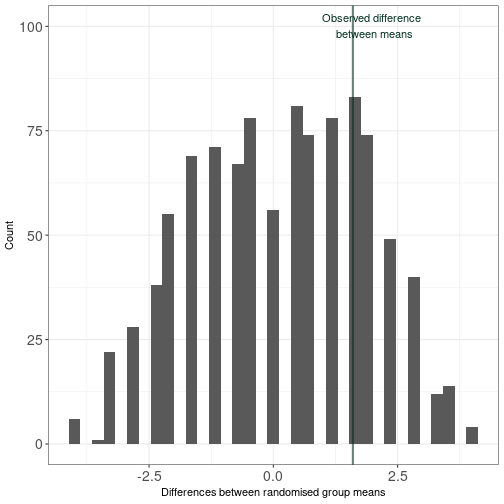
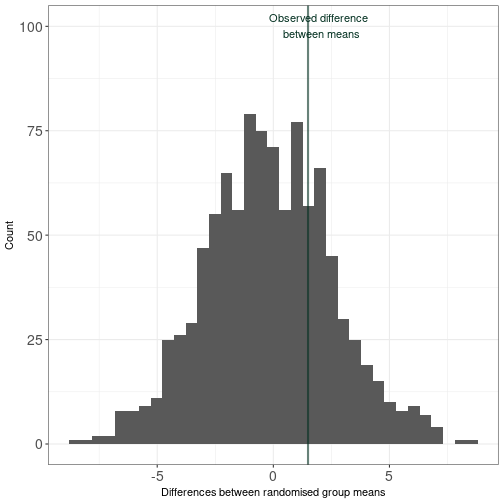
week 03 02

diff --git a/index.html b/index.html
@@ -2232,73 +2232,81 @@ class: rolling-slide
 + **Correctly interpret** and **communicate** a p-value in terms of a randomization test
 ]
 
+---
+
+[`R` demo] - download [sweets.csv](https://canvas.auckland.ac.nz/courses/120675/files/15934050?wrap=1) from CANVAS (i.e., last lectures' data)
+
+
+``` r
+library(tidyverse)
+sweets &lt;- read_csv("sweets.csv")
+## drop NA Time (response) values
+sweets &lt;- sweets[!is.na(sweets$Time),] 
+## One unusually high time value 
+## here I've chosen to assume the , is meant to be a decimal 
+## and have overwritten it 'manually' (is this best practice?)
+sweets$Time[1] &lt;- 49.53
+## Plotting 
+ggplot(sweets, aes(x = Treatment, y = Time)) +
+  geom_violin()
+```
 
 ---
 class: inverse, middle, center
 
-##### Do you think the means of each group are *significantly* different from each other? Why or why not? 
+**Are the means of each treatment are *significantly* different from each other? Why or why not?**&lt;p&gt;&lt;a href="https://dub.sh/biosci220" target="_blank"&gt;dub.sh/biosci220&lt;/a&gt;&lt;/p&gt;
 
-  
-![](index_files/figure-html/unnamed-chunk-12-1.png)&lt;!-- --&gt;
-
-
----
-class: inverse, middle, center
-
-##### Do you think the means of each group are *significantly* different from each other? Why or why not? 
-
-  
-
-&lt;div &gt;
-  &lt;p&gt;&lt;a href="https://dub.sh/biosci220" target="_blank"&gt;dub.sh/biosci220&lt;/a&gt;&lt;/p&gt;
-&lt;img src="img/dub_biosci220.svg" alt="dub.sh/biosci220"&gt;
-&lt;/div&gt;
+![](index_files/figure-html/unnamed-chunk-13-1.png)&lt;!-- --&gt;
 
 
 
 ---
 ### Difference in means for our observed data 
 
-Let `\(\mu_\text{White}\)` be the mean of Group *White* and `\(\mu_\text{Blue}\)` be the mean of Group *Blue* 
+Let `\(\mu_\text{A}\)` be the mean of *Treatment A* and `\(\mu_\text{B}\)` be the mean of *Treatment B* 
 
 
 ``` r
-data &lt;- data.frame(Group = rep(c("Blue", "White"), each = 5),
-                   Value = c(7,6,4,2,2,5,4,6,11,3))
-
+library(tidyverse)
+## pre-cleaned data
+data &lt;- read_csv("https://raw.githubusercontent.com/STATS-UOA/databunker/master/data/sweets.csv")
 diff_in_means &lt;- data %&gt;% 
-  group_by(Group) %&gt;% 
-  summarise(mean = mean(Value)) %&gt;%
-  summarise(diff = diff(mean)) %&gt;% as.numeric()
-diff_in_means
+  group_by(Treatment) %&gt;% 
+  summarise(mean = mean(Time)) %&gt;%
+  summarise(diff = diff(rev(mean))) %&gt;% as.numeric()
+round(diff_in_means, 3)
 ```
 
 ```
-## [1] 1.6
+## [1] 1.494
 ```
-That is, `\(\mu_\text{White} - \mu_\text{Blue} = 1.6\)`
+
+That is, `\(\mu_\text{A} - \mu_\text{B} = 1.494\)` (on average a ~1.5(s) difference in time to complete the task)
 ---
 class: center, middle, inverse
 
-### [**Sticker Demo**]
+### [**Sticker Demo**] (*White = Treatment A, Blue = Treatment B*)
 
-NULL `\(H_0: \mu_\text{White} = \mu_\text{Blue}\)` 
+(NULL hypothesis) `\(H_0: \mu_\text{A} = \mu_\text{B}\)` 
 
 vs 
 
-alternative `\(H_1: \mu_\text{White} \neq \mu_\text{Blue}\)`
+(alternative hypothesis) `\(H_1: \mu_\text{A} \neq \mu_\text{B}\)`
+
+Take a sticker and...[update this sheet after following Charlotte's instructions](https://docs.google.com/spreadsheets/d/1xyda-lzAlPUWLzf2M2jNpOUWbaL38LX2XFxo4pGDMao/edit?usp=sharing) 
+
 ---
 
 ### Code for you to run *(as many times as you like)*
 
 
 ``` r
-data.frame(Group = rep(c("Blue", "White"), each = 5),
-                   Value = c(7,6,4,2,2,5,4,6,11,3)) %&gt;%
-  mutate(random_labels  = sample(Group, replace = FALSE)) %&gt;%
+library(tidyverse)
+read_csv("https://raw.githubusercontent.com/STATS-UOA/databunker/master/data/sweets.csv") %&gt;%
+  mutate(random_labels  = sample(Treatment, replace = FALSE)) %&gt;%
   group_by(random_labels) %&gt;% 
-  summarise(mean = mean(Value)) %&gt;%
-  summarise(diff = diff(mean)) %&gt;% as.numeric()
+  summarise(mean = mean(Time)) %&gt;%
+  summarise(diff = diff(rev(mean))) %&gt;% as.numeric()
 ```
 
 
@@ -2309,8 +2317,8 @@ class: center, middle, inverse
 
 
 &lt;div align=center&gt;
-&lt;p&gt;&lt;a href="https://dub.sh/biosci220" target="_blank"&gt;dub.sh/biosci220&lt;/a&gt;&lt;/p&gt;
-&lt;img src="img/dub_biosci220.svg" alt="dub.sh/biosci220"&gt;
+&lt;p&gt;&lt;a href="https://ggl.link/biosci220" target="_blank"&gt;ggl.link/biosci220&lt;/a&gt;&lt;/p&gt;
+&lt;img src="img/ggl_biosci220.svg" alt="ggl.link/biosci220"&gt;
 &lt;/div&gt;
 
 
@@ -2319,11 +2327,11 @@ class: center, middle, inverse
 **Randomization test**
 
 
- + **Decide** on a metric (Note this metric can be **anything** you wish) to measure the effect in question, we chose `\(\mu_\text{White} - \mu_\text{Blue}\)`
+ + **Decide** on a metric (Note this metric can be **anything** you wish) to measure the effect in question, we used `\(\mu_\text{A} - \mu_\text{B}\)`
  
 --
  
- + **Calculate** that test statistic on the observed data, we had `\(\mu_\text{White} - \mu_\text{Blue} = 1.6\)`
+ + **Calculate** that test statistic on the observed data, we had `\(\mu_\text{A} - \mu_\text{B} = 1.494\)`
  
 --
 
@@ -2408,9 +2416,9 @@ A: Informally, a p-value is the probability under a specified statistical model 
 
 ---
 
-### 😱 Correctly interpreting p-values 😱
+#### 😱 Correctly interpreting p-values 😱
 
-Let's go back to our in-class randomization test; how likely was what we observed, `\(\mu_\text{White} - \mu_\text{Blue} = 1.6\)`, to have occured by chance alone? Use `R` to reshuffle our data labels 1000 times:
+Let's go back to our in-class randomization test; how likely was what we observed, `\(\mu_\text{A} - \mu_\text{B} = -1.494\)`, to have occurred by chance alone? Use `R` to reshuffle our data labels 1000 times:
 
 
 ``` r
@@ -2418,16 +2426,15 @@ nreps &lt;- 1000
 ## initialize empty array to hold results
 randomisation_difference_mean &lt;- numeric(nreps)
 set.seed(1234) ## for consistency
-data &lt;- data.frame(Group = rep(c("Blue", "White"), each = 5),
-                   Value = c(7,6,4,2,2,5,4,6,11,3)) 
+data &lt;- read_csv("https://raw.githubusercontent.com/STATS-UOA/databunker/master/data/sweets.csv")
 for (i in 1:nreps) {
   randomisation_difference_mean[i] &lt;- data %&gt;%
-  mutate(random_labels  = sample(Group, replace = FALSE)) %&gt;%
+  mutate(random_labels  = sample(Treatment, replace = FALSE)) %&gt;%
   group_by(random_labels) %&gt;% 
-  summarise(mean = mean(Value)) %&gt;%
-  summarise(diff = diff(mean)) %&gt;% as.numeric()
+  summarise(mean = mean(Time)) %&gt;%
+  summarise(diff = diff(rev(mean))) %&gt;% as.numeric()
 }
-## results, combine with the observed statistic
+## results
 results &lt;- data.frame(randomisation_difference_mean = randomisation_difference_mean)
 ```
 
@@ -2435,16 +2442,16 @@ results &lt;- data.frame(randomisation_difference_mean = randomisation_differenc
 
 ---
 
-### 😱 Correctly interpreting p-values 😱
+#### 😱 Correctly interpreting p-values 😱
 
-How likely was what we observed, `\(\mu_\text{White} - \mu_\text{Blue} = 1.6\)`, to occur by chance alone? A look at the full sampling distribution.
+How likely was what we observed, `\(\mu_\text{A} - \mu_\text{B} = 1.494\)`, to occur by chance alone? A look at the full sampling distribution.
 
 
 ``` r
 ggplot(results, aes(x = randomisation_difference_mean)) +
   geom_histogram(bins = 35) +
   theme_bw() + theme(axis.text = element_text(size = 14)) + 
-  ylab("Count") + xlab("Differences between randomised group means") +
+  ylab("Count") + xlab("Differences between randomised treatment means") +
   geom_vline(xintercept = diff_in_means, col = "#023020", linewidth = 1,alpha = 0.6) +
   annotate(geom = 'text', label = "Observed difference \n between means" , 
            x = 02, y = 100, color = "#023020")
@@ -2456,13 +2463,13 @@ ggplot(results, aes(x = randomisation_difference_mean)) +
 
 ## 
 
-![](index_files/figure-html/unnamed-chunk-18-1.png)&lt;!-- --&gt;
+![](index_files/figure-html/unnamed-chunk-19-1.png)&lt;!-- --&gt;
 
 ---
 
 ### 😱 Correctly interpreting p-values 😱
 
-How likely was what we observed, `\(\mu_\text{White} - \mu_\text{Blue} = 1.6\)`, to occur by chance alone? A look at the numbers.
+How likely was what we observed, `\(\mu_\text{A} - \mu_\text{B} = 1.494\)`, to occur by chance alone? A look at the numbers.
 
 
 ``` r
@@ -2470,7 +2477,7 @@ sum(results$randomisation_difference_mean &gt;= diff_in_means)
 ```
 
 ```
-## [1] 276
+## [1] 267
 ```
 
 ``` r
@@ -2478,19 +2485,19 @@ sum(results$randomisation_difference_mean &lt;= -1*diff_in_means)
 ```
 
 ```
-## [1] 219
+## [1] 315
 ```
 
 That is, out of the 1000 iterations
 
- + a value &gt;= 1.6 was obtained 276 times, and 
- + a value &lt;= -1.6 was obtained 219 times.
+ + a value &gt;= 1.494 was obtained 267 times, and 
+ + a value &lt;= -1.494 was obtained 315 times.
  
 ---
  
 ### 😱 Correctly interpreting p-values 😱
 
-How likely was what we observed, `\(\mu_\text{White} - \mu_\text{Blue} = 1.6\)`, to occur by chance alone? A look at the numbers.
+How likely was what we observed, `\(\mu_\text{A} - \mu_\text{B} = 1.494\)`, to occur by chance alone? A look at the numbers.
 
 Therefore, the proportion of times a value *as least as extreme* as the magnitude of the test statistic was observed is
 
@@ -2501,10 +2508,10 @@ n_exceed/nreps
 ```
 
 ```
-## [1] 0.495
+## [1] 0.582
 ```
 
-We therefore have no evidence against the NULL hypothesis that `\(\mu_\text{White} = \mu_\text{Blue}\)` (i.e., what we observed was quite likely to have occurred by chance alone).
+So, we have **no evidence against the NULL hypothesis** that `\(\mu_\text{A} = \mu_\text{B}\)` (i.e., the difference between averages of time to complete tasks likely to have occurred by chance alone).
 
 ---
 
